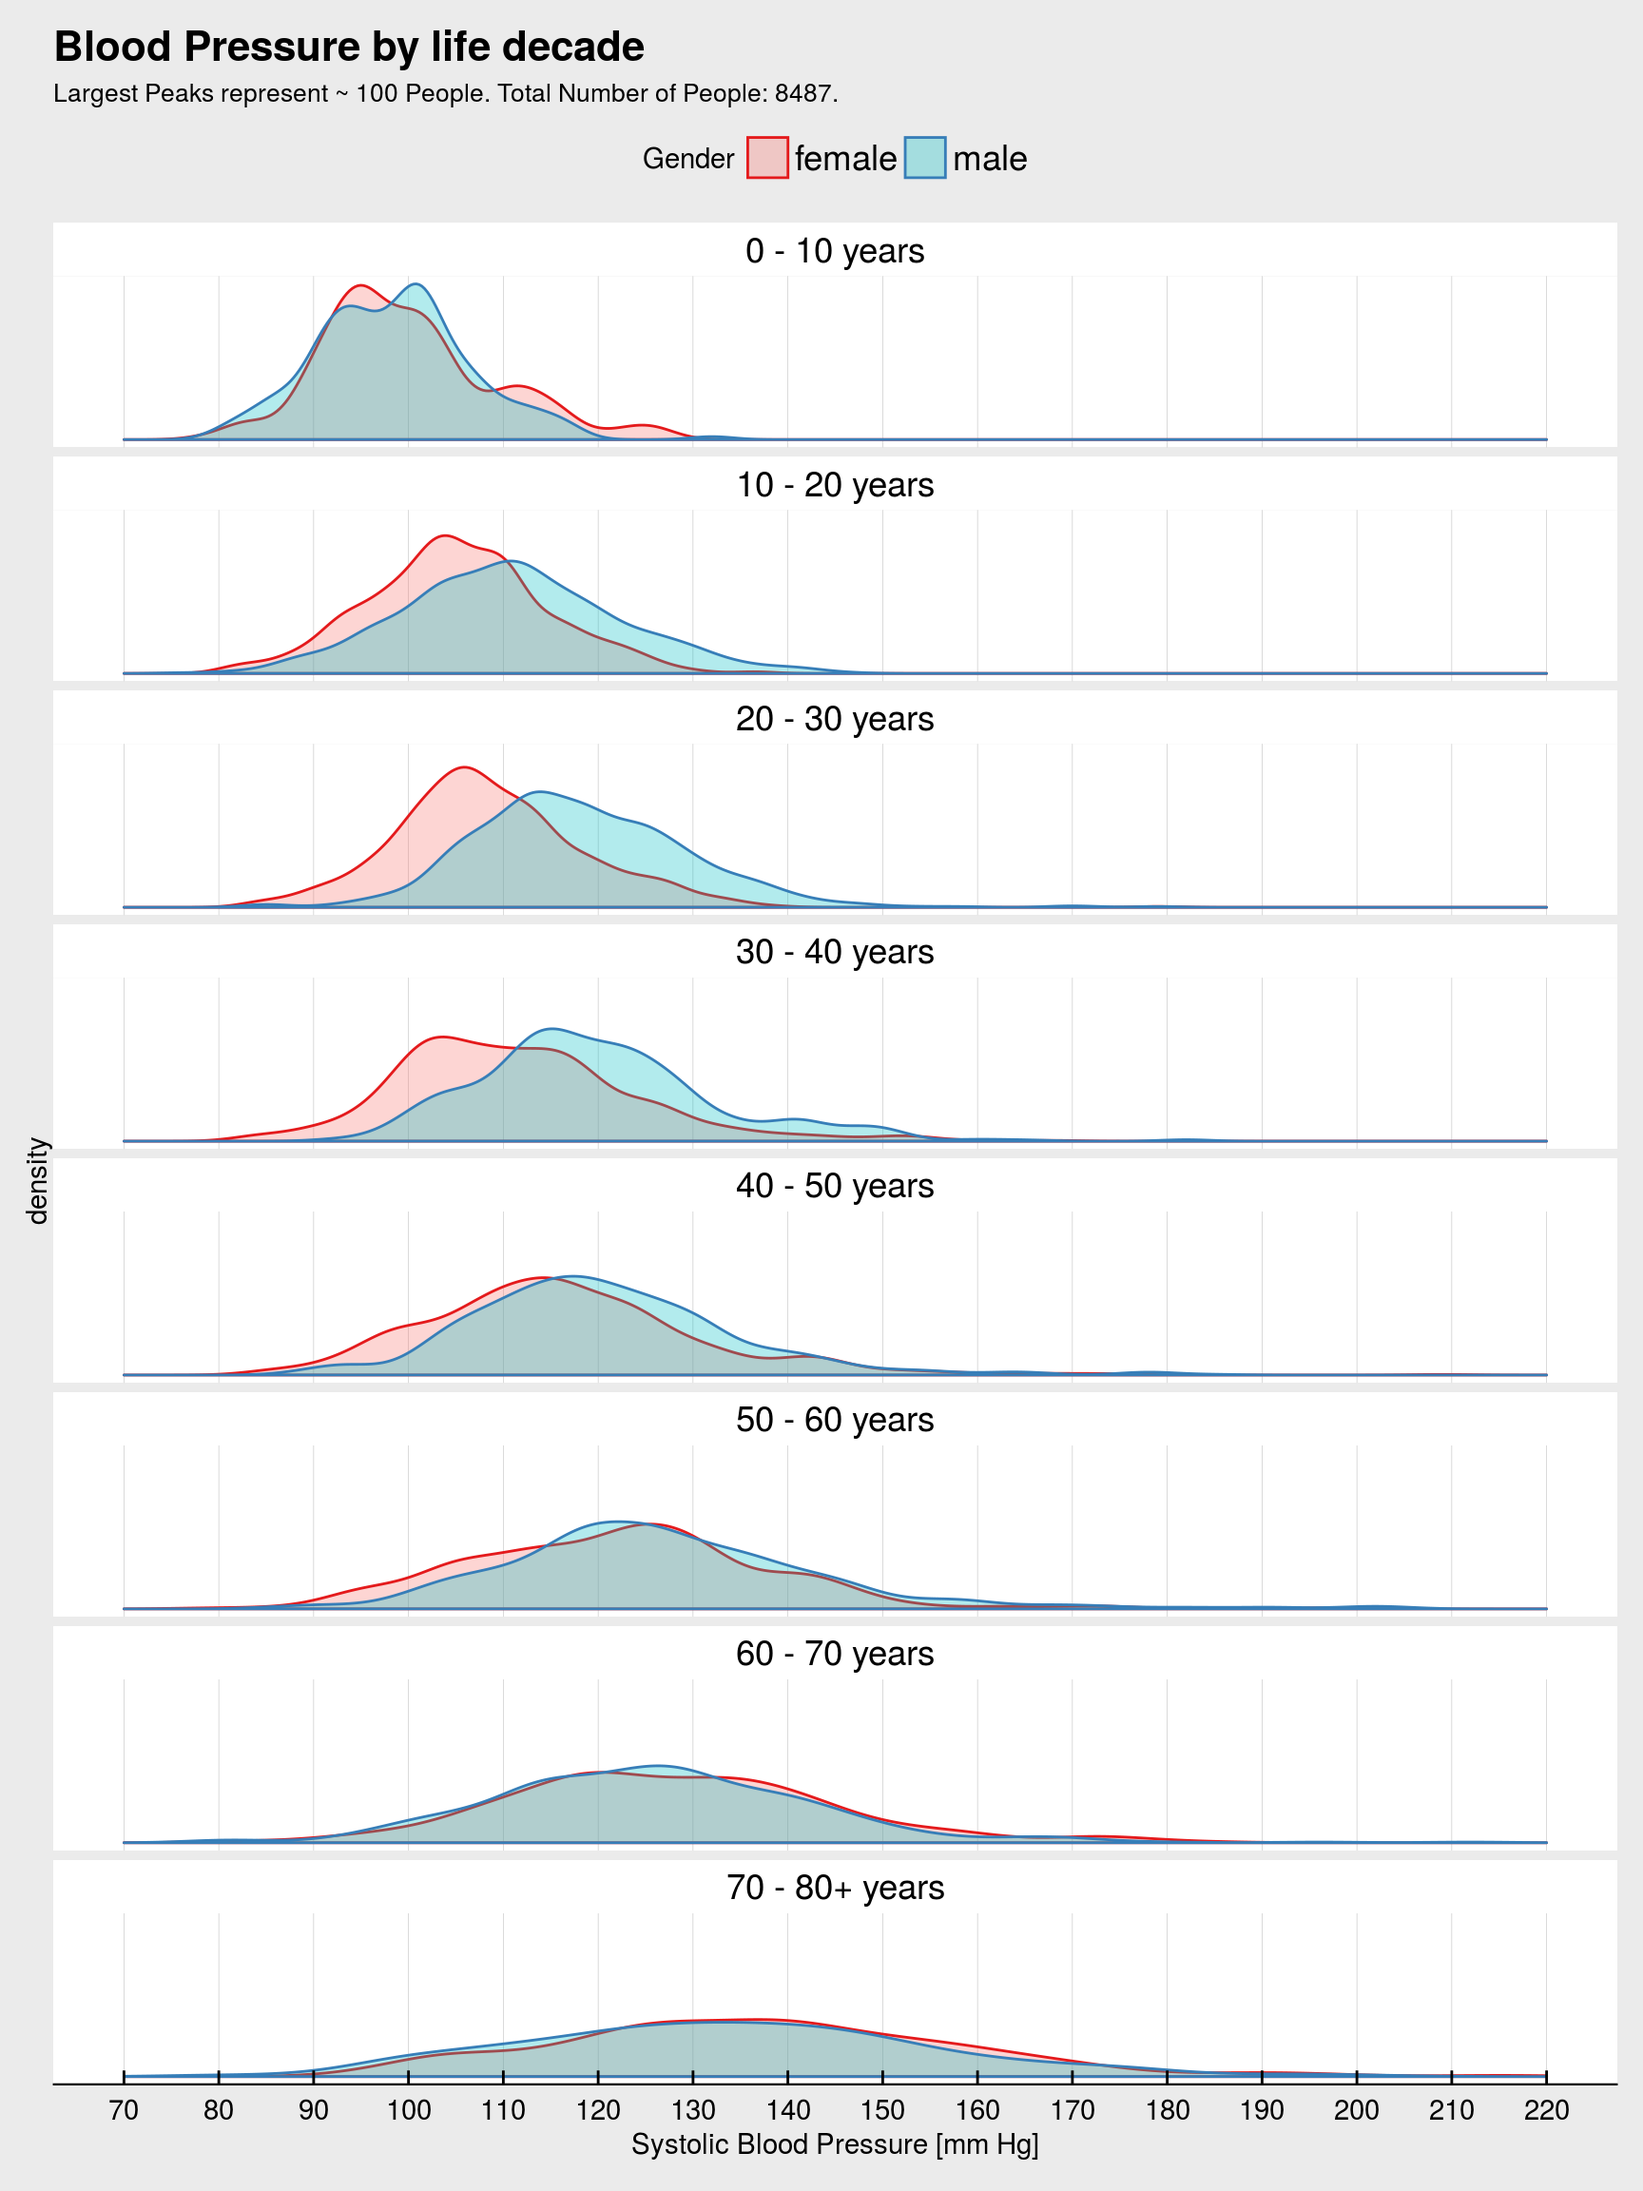
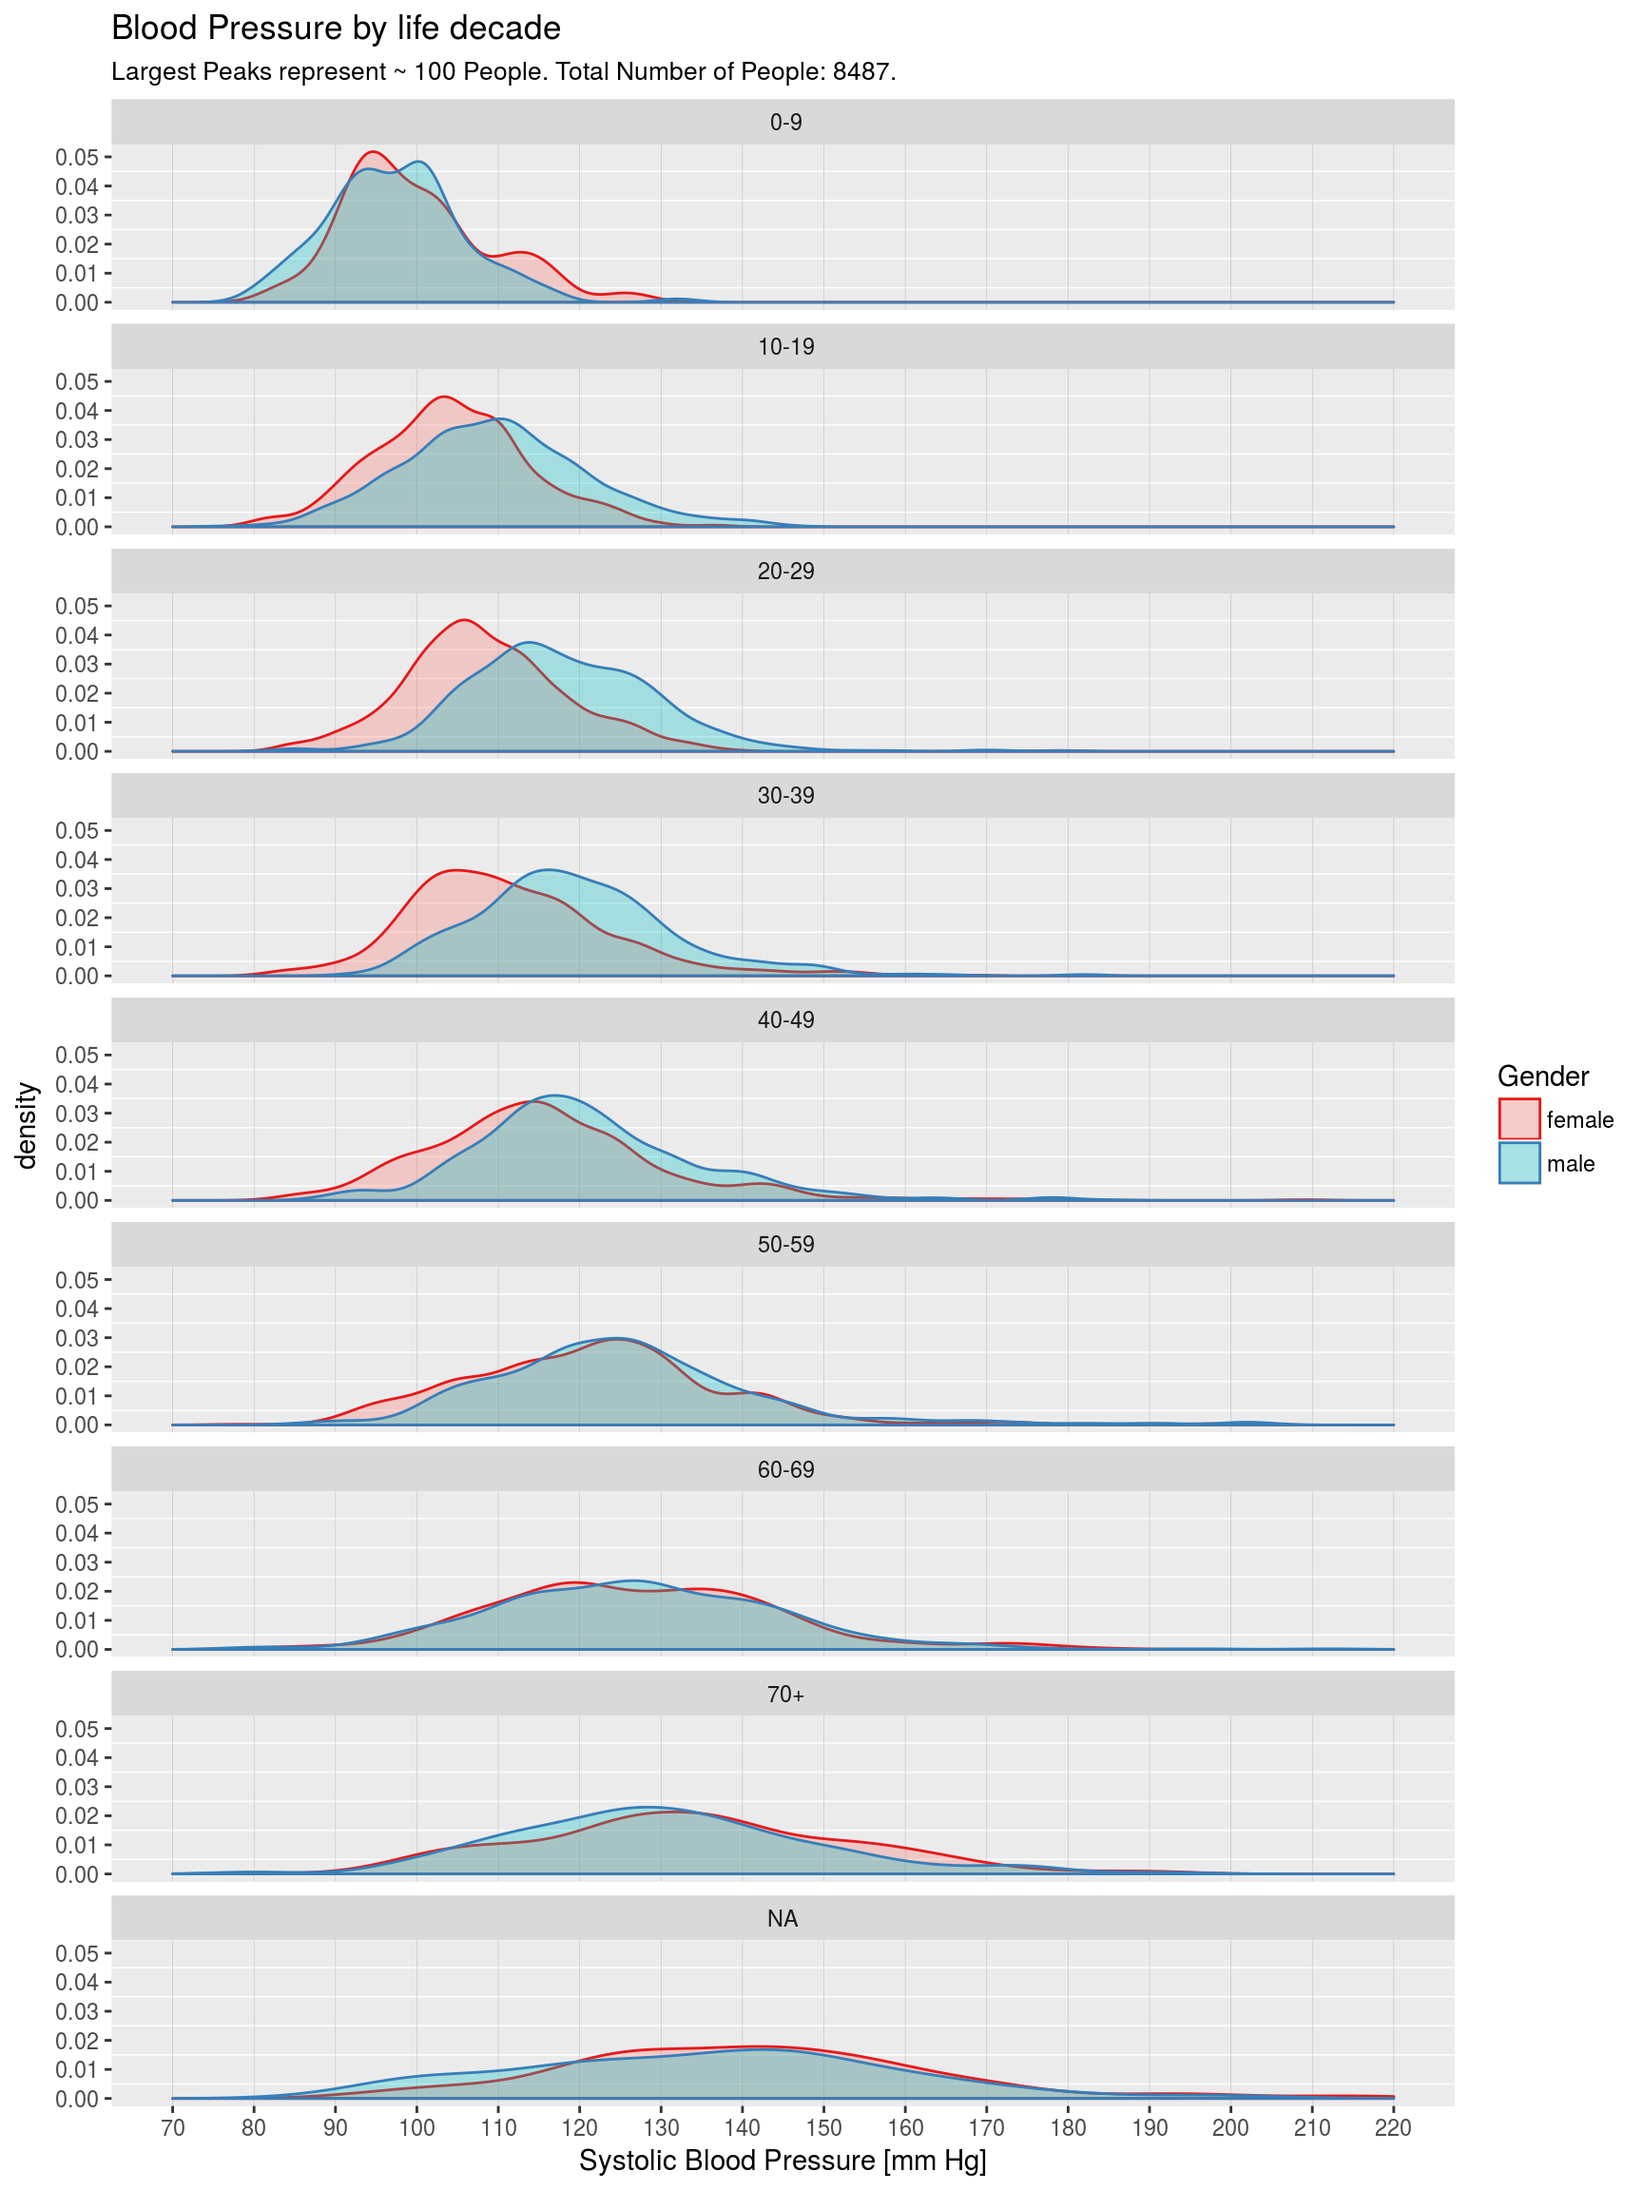
add better labels to faceted density plot

diff --git a/content/post/2018-02-13-lasso-regression-on-blood-pressure-data.html b/content/post/2018-02-13-lasso-regression-on-blood-pressure-data.html
@@ -37,7 +37,7 @@ keywords:
 <h4>NHANES dataset</h4>
 <p>NHANES is the US National Health and Nutrition Examination Study. It is a carefully curated, larger medical survey aiming to get a representative sample of the general US population. The survey is carried out periodically.</p>
 <p>The <a href="https://www.cdc.gov/nchs/nhanes/participant_video.htm"><em>NHANES</em> dataset</a> is available as an R package on <a href="https://cran.r-project.org/package=NHANES">CRAN</a>. I have used package version 2.1.0, specifically “NHANES 2009-2012 with adjusted weighting”. This dataset contains some corrections for undersampling racial minorities. Uncorrected data is also available, in the <em>NHANESraw</em> package.</p>
-<p>Obligatory Disclaimer (from the Page Documentation):</p>
+<p>Obligatory Disclaimer (from the Package Documentation):</p>
 <p><em>Please note that the data sets provided in this package are derived from the NHANES database and have been adapted for educational purposes. As such, they are NOT suitable for use as a research database.</em></p>
 </div>
 <div id="preprocessing" class="section level4">

diff --git a/content/post/2018-02-08-blood-pressure.html b/content/post/2018-02-08-blood-pressure.html
@@ -106,11 +106,11 @@ Figure 1:  Predicted values are shown in red, observed values in black.
 ##     1635     1635</code></pre>
 <p>Create a smaller NHANES dataset, <code>bloodpressure2</code>, containing relevant columns only:</p>
 <pre class="r"><code>bloodpressure2 &lt;- NHANES %&gt;%
-    select(BPSysAve, Age, Weight, Gender, BMI) %&gt;%
+    select(BPSysAve, Age, AgeDecade, Weight, Gender, BMI) %&gt;%
     filter(!is.na(BPSysAve), !is.na(Weight), !is.na(BMI))</code></pre>
 <p>The NAs are gone.</p>
 <p>We include <em>Gender</em> and <em>BMI</em> (Body Mass Index) for later.</p>
-<p>The reduced dataset contains 8487 rows (People) and 5 columns.</p>
+<p>The reduced dataset contains 8487 rows (People) and 6 columns.</p>
 <p>Summary of Blood Pressure Data:</p>
 <pre><code>##     BPSysAve        Age           Weight         Gender          BMI      
 ##  Min.   : 76   Min.   : 8.0   Min.   : 17.1   female:4270   Min.   :12.9  
